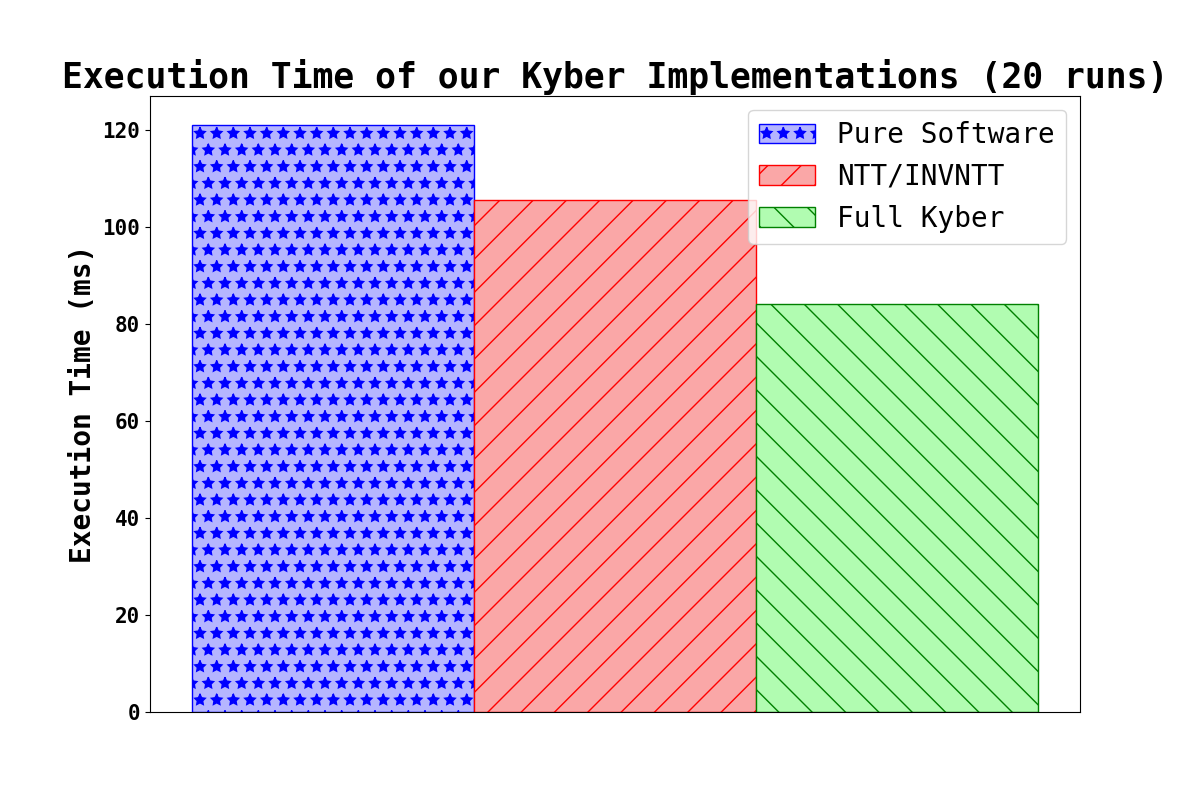
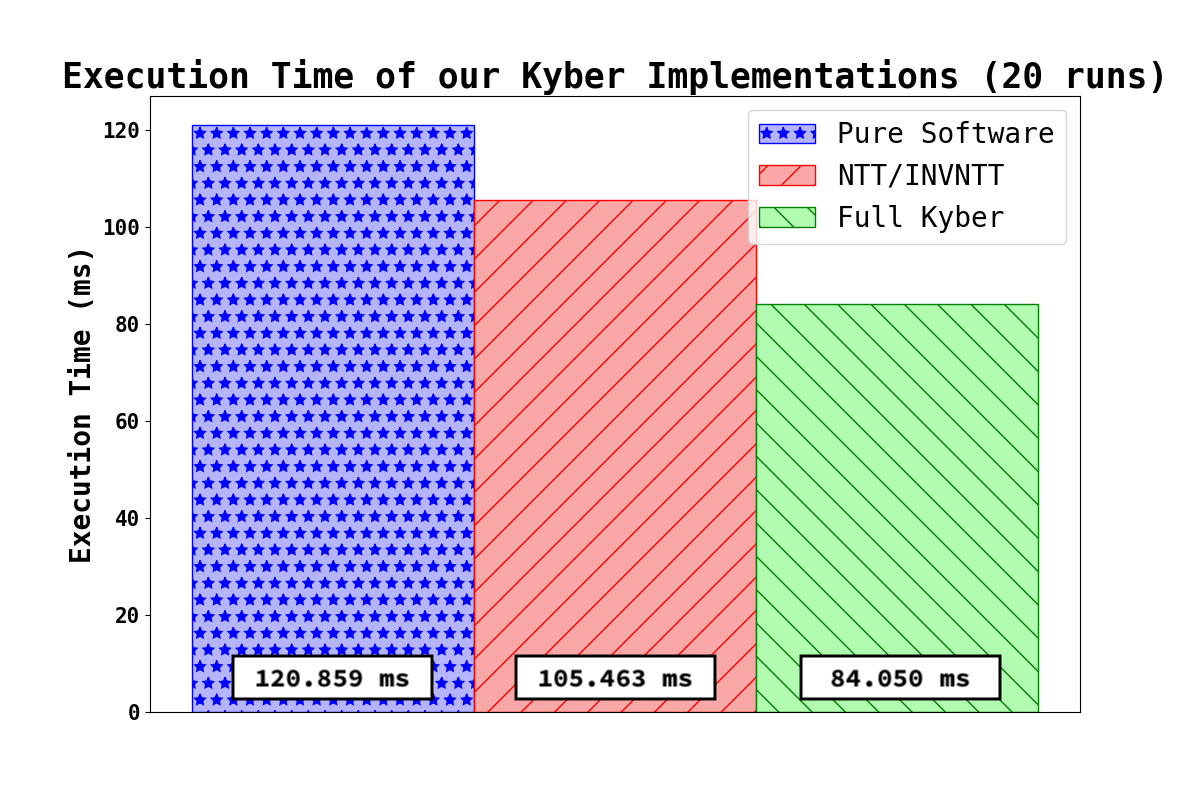
Unlock fpga-results

Changed region(s): [[0.4008, 0.8125, 0.6167, 0.875], [0.6475, 0.8125, 0.8325, 0.875], [0.185, 0.8125, 0.37, 0.875]]

diff --git a/docs/sections/fpga-results.tex b/docs/sections/fpga-results.tex
@@ -89,12 +89,23 @@ this case from the lack of aggressive pipelining/unrolling.
 
 In addition to the hardware utilization of each design, we
 also compare about the predicted latency of each design;
-how many cycles each design should take. For the NTT
+how many cycles each design should take. This is shown as a
+range for both designs in Figure \ref{fig:results-synth-lat}. For the NTT
 algorithms, the latency is uncertain, as it depends on which
 operation we're performing. Performing an NTT operation takes
-2610 cycles, whereas performing an INVNTT operation takes 4378
-cycles due to an extra multiplication reduction step needed at
-the end.
+\textbf{2610 cycles}, whereas performing an INVNTT operation takes
+\textbf{4378 cycles} due to an extra multiplication reduction step needed at
+the end. However, for the entire design, the lowest latency
+was \textbf{501453 cycles} (on the order as expected), but the tools
+could not compute an upper latency bound. When we fixed the
+offending loops to have constant bounds, the maximum possible
+latency was astronomical (on the order of ~1000 seconds). This
+is because the algorithm currently uses rejection sampling to
+achieve a random number in the modular ring for Kyber. In
+practice, many rejections are likely not needed (or algorithmic
+changes could be made to use a modulus instead of random
+sampling, albeit affecting the distribution), so our design
+can be best approximated by the lower bound.
 
 % ---------------------------------------------------------
 % Experimental
@@ -103,3 +114,54 @@ the end.
 % FPGA
 
 \subsection*{Experimental}
+
+In addition to theoretical results, we additionally used
+Vivado's HLS tools to generate bitstreams for both
+implementations, such that they could be used on the FPGA.
+This allowed us to write host-side code to run on the ARM
+core and interact with our designs to measure their actual
+execution time, the results of which are shown in Figure
+\ref{fig:results-exp-time}. Measurements were done by running
+the desired algorithm 20 times by feeding 20 inputs, then
+reading the resulting 20 outputs, in order to amortize the
+communication latency.
+
+\begin{figure}[H]
+  \centering
+  \includegraphics[width=0.5\linewidth]{imgs/results-exp-time.png}
+  \caption{
+    The measured execution time of the different Kyber
+    implementations on the FPGA
+  }
+  \label{fig:results-exp-time}
+\end{figure}
+
+From the figure, we can see that the NTT algorithms in hardware
+(taking \textbf{105.463 ms}) resulted in some speedup over a pure
+software implementation (\textbf{120.859 ms}), but were overall
+limited in their speedup from the fact that the majority of the
+Kyber algorithm was still in software. Even though we significantly
+optimized the NTT/INVNTT portions of the algorithm, they only
+composed an overall (\textbf{28.354 ms}) of the algorithm, with
+the other (\textbf{77.108 ms}) representing the remaining (unoptimized)
+software algorithm.
+
+Having the entire algorithm in hardware (\textbf{84.050 ms}) resulted
+in more speedup over software than just the NTT kernels, but ultimately
+not as much as we hoped. This is due to two main factors:
+
+\begin{itemize}
+  \item The ARM core is running at a faster frequency than the FPGA
+        fabric. Therefore, software algorithms, even though running on
+        general-purpose hardware, may be more competitive due to their
+        higher frequency
+  \item Kyber is composed of many different kernels and parts of the
+        algorithm, as shown in the flame graph above. Each of these
+        different operations requires different hardware to implement,
+        resulting in low levels of hardware re-use. Because of this,
+        many resources are used to simply implement the entire algorithm,
+        leaving fewer available to parallelize the operations for higher
+        performance, as was achieved in lab. We were ultimately unable to
+        optimize large portions of the design for this reason.
+\end{itemize}
+
